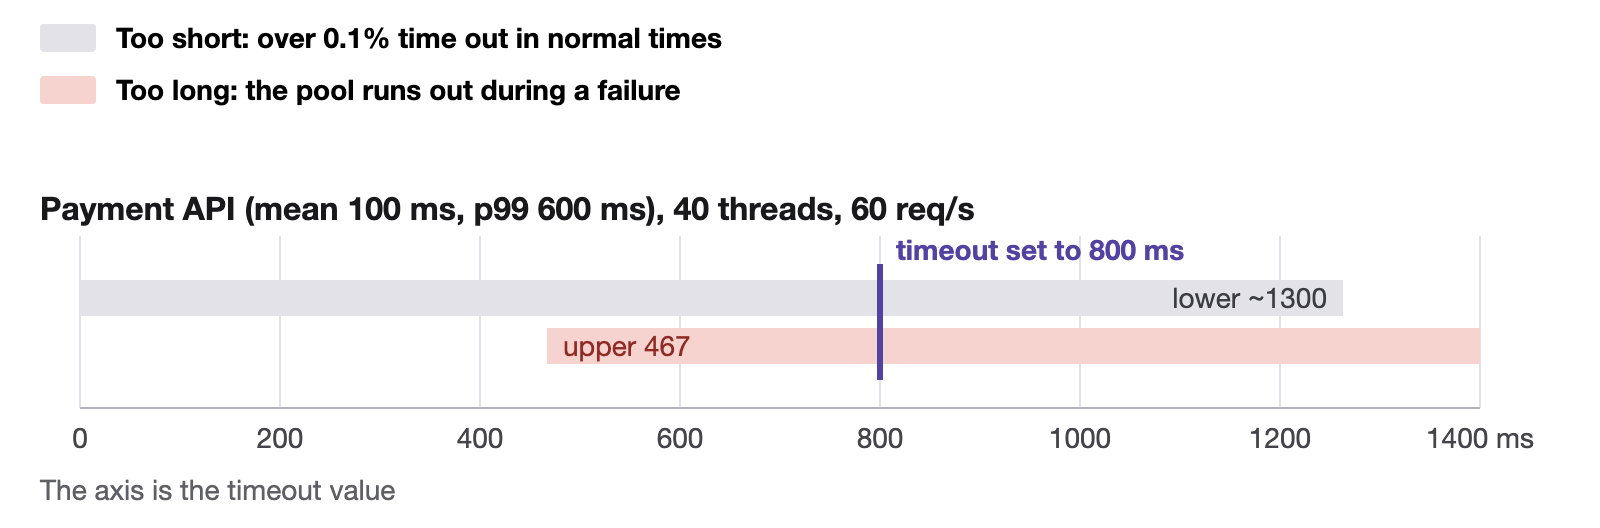
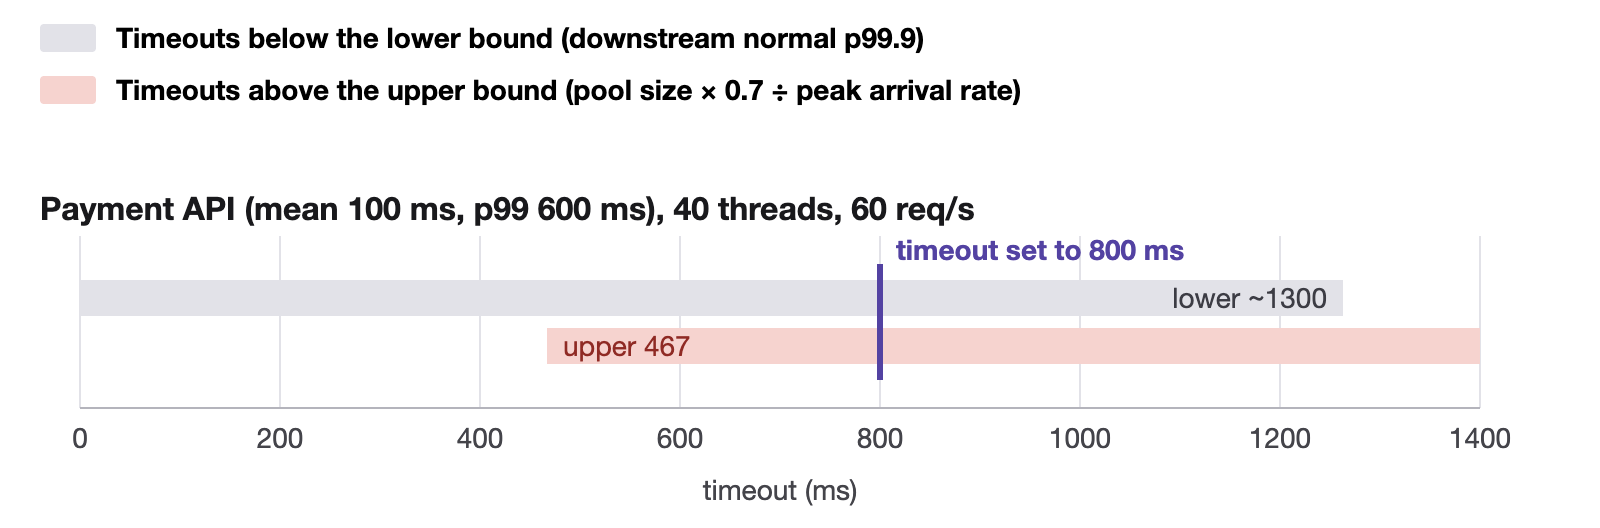
Name what each timeout stripe holds in the legend and put axis titles under the ticks

diff --git a/tools/diagrams/timeout-range.js b/tools/diagrams/timeout-range.js
@@ -1,5 +1,5 @@
 // タイムアウトの下限と上限の図（3 枚で共通）。HTML の側で TIMEOUT_CASE を決めてから読み込む
-// 帯は 2 本。上の帯は短すぎて平常時のタイムアウトが 0.1% を超える長さ（0〜下限 ＝ p99.9）、下の帯は長すぎて障害時にプールが尽きる長さ（上限〜）。帯のあいだに隙間があれば、そこから選べる
+// 帯は 2 本。上の帯は下限（下流の平常時の p99.9）より短いタイムアウト、下の帯は上限（プールの大きさ × 0.7 ÷ ピーク時の到着率）より長いタイムアウト。帯のあいだに隙間があれば、そこから選べる
 const svg = document.getElementById('fig');
 defs(svg);
 const LX = 20, AX = 40, S = 0.5, MAX = 1400;
@@ -8,28 +8,28 @@ const X = (ms) => AX + ms * S;
 const CASES = {
   threads: {
     head: tr('決済 API（平均 50ms・p99 120ms）、スレッド 40 本、到着 60 件/秒', 'Payment API (mean 50 ms, p99 120 ms), 40 threads, 60 req/s'),
-    lower: 165, upper: 467, pick: 300, formulas: true,
+    lower: 165, upper: 467, pick: 300,
   },
   connections: {
     head: tr('決済 API をトランザクションの中で呼ぶ：コネクション 10 本で計算し直す', 'Payment call inside the transaction: recomputed with 10 connections'),
-    lower: 165, upper: 117, pick: 300, formulas: false,
+    lower: 165, upper: 117, pick: 300,
   },
   slow: {
     head: tr('決済 API（平均 100ms・p99 600ms）、スレッド 40 本、到着 60 件/秒', 'Payment API (mean 100 ms, p99 600 ms), 40 threads, 60 req/s'),
-    lower: 1263, upper: 467, pick: 800, formulas: false,
+    lower: 1263, upper: 467, pick: 800,
   },
 };
 const c = CASES[TIMEOUT_CASE];
 
-// 凡例：帯の色と、その長さだと何が起きるか（式は最初の 1 枚だけ）
+// 凡例：帯がどのタイムアウトの値か
 let y = 24;
-for (const [cls, what, formula] of [
-  ['z-short', tr('短すぎる：平常時のタイムアウトが 0.1% を超える', 'Too short: over 0.1% time out in normal times'), tr('下限 ＝ 下流の平常時の p99.9', 'lower bound = downstream normal p99.9')],
-  ['z-long', tr('長すぎる：障害時にプールが尽きる', 'Too long: the pool runs out during a failure'), tr('上限 ＝ プールの大きさ × 使ってよい割合（0.7）÷ 1 台あたりのピーク時の到着率', 'upper bound = pool size × usable share (0.7) ÷ peak arrival rate per instance')],
+for (const [cls, what] of [
+  ['z-short', tr('下限（下流の平常時の p99.9）より短いタイムアウト', 'Timeouts below the lower bound (downstream normal p99.9)')],
+  ['z-long', tr('上限（プールの大きさ × 0.7 ÷ ピーク時の到着率）より長いタイムアウト', 'Timeouts above the upper bound (pool size × 0.7 ÷ peak arrival rate)')],
 ]) {
   el(svg, 'rect', { class: cls, x: LX, y: y - 12, width: 28, height: 14, rx: 2 });
   text(svg, LX + 38, y, 'lbl', what);
-  if (c.formulas) { text(svg, LX + 38, y + 20, 'small', formula); y += 46; } else { y += 26; }
+  y += 26;
 }
 
 const TOP = y + 20, SH = 18, GAP = 6;
@@ -59,6 +59,6 @@ const right = text(svg, X(c.pick) + 8, ys - 10, 'small ord b', label);
 if (right > 792) { svg.removeChild(svg.lastChild); text(svg, X(c.pick) - 8, ys - 10, 'small ord b end', label); }
 
 el(svg, 'line', { class: 'axis', x1: X(0), y1: END, x2: X(MAX), y2: END });
-for (let ms = 0; ms <= MAX; ms += 200) text(svg, X(ms), END + 20, 'small mid', ms === MAX ? '1400 ms' : String(ms));
-text(svg, LX, END + 46, 'note', tr('横軸はタイムアウトの値', 'The axis is the timeout value'));
+for (let ms = 0; ms <= MAX; ms += 200) text(svg, X(ms), END + 20, 'small mid', String(ms));
+text(svg, X(MAX / 2), END + 46, 'small mid', tr('タイムアウト（ms）', 'timeout (ms)'));
 canvas(svg, 800, END + 60);

diff --git a/tools/diagrams/breaker-window.html b/tools/diagrams/breaker-window.html
@@ -25,7 +25,7 @@
   }
   for (let t = 0; t <= TMAX; t += 2) text(svg, X(t), PY0 + 22, 'small mid', String(t));
   el(svg, 'line', { class: 'axis', x1: PX0, y1: PY0, x2: PX1, y2: PY0 });
-  text(svg, PX1, PY0 + 46, 'small end', tr('障害からの時間（秒）', 'seconds since the fault'));
+  text(svg, (PX0 + PX1) / 2, PY0 + 46, 'small mid', tr('障害からの時間（秒）', 'time since the fault (s)'));
   text(svg, 20, 40, 'small', tr('直近 10 秒の集計に残っている呼び出し（件）', 'calls in the last 10 s of the count'));
 
   // 最初の予測：失敗が 20 件たまれば開く（約 0.6 秒）

diff --git a/docs/article.md b/docs/article.md
@@ -316,7 +316,7 @@ W に上限を付ける一番の手段は、下流の呼び出しのタイムア
 
 ![スレッドで見たタイムアウトの下限と上限](https://raw.githubusercontent.com/rea9r/littles-law-resilience-lab/main/docs/images/timeout-range-threads.ja.png)
 
-- 灰色の帯（0〜165ms）は、平常時のタイムアウトが 0.1% を超える長さ。赤い帯（467ms〜）は、障害時にスレッドが尽きる長さ
+- 灰色の帯（0〜165ms）は下限より短いタイムアウトで、平常時の呼び出しの 0.1% より多くがタイムアウトする。赤い帯（467ms〜）は上限より長いタイムアウトで、障害時にスレッドが尽きる
 - 2 本の帯のあいだ（165〜467ms）なら、平常時のタイムアウトは 0.1% 以下で、障害時にもスレッドが尽きない
 - この実験では 300ms を設定した（平常時にタイムアウトするのは計算で 0.001% 以下）
 
